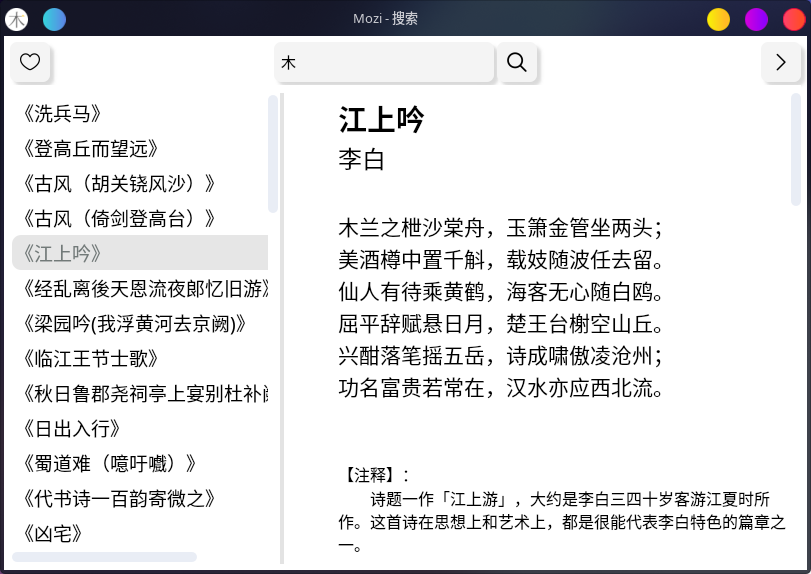
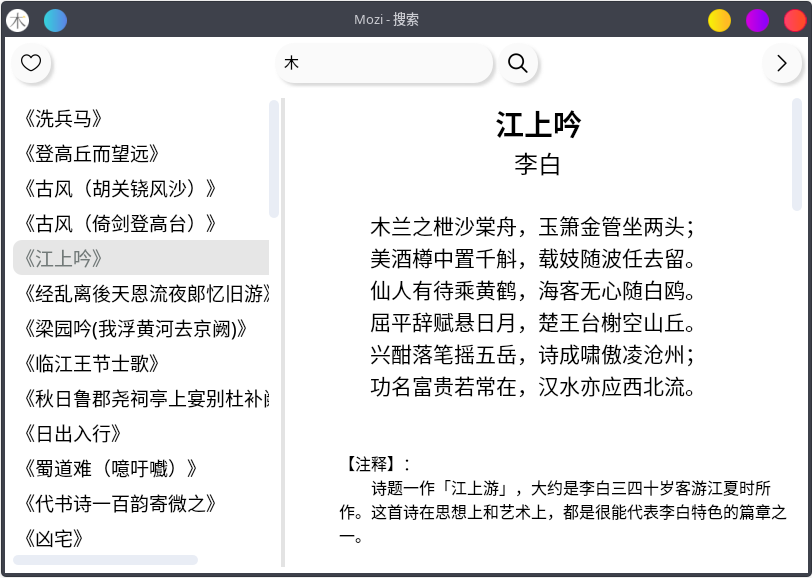
1.0.0.8-更新了UI

diff --git a/src/mainwidget.cpp b/src/mainwidget.cpp
@@ -25,13 +25,7 @@ MainWidget::MainWidget(QWidget *parent) :
     ui(new Ui::MainWidget),
     m_updater(new My_Updater(this)),
     m_networkManager(new My_NetworkManager(this)),
-    m_toast(new My_Toast(this)),
-    m_shadow_1(new QGraphicsDropShadowEffect(this)),
-    m_shadow_2(new QGraphicsDropShadowEffect(this)),
-    m_shadow_3(new QGraphicsDropShadowEffect(this)),
-    m_shadow_4(new QGraphicsDropShadowEffect(this)),
-    m_shadow_5(new QGraphicsDropShadowEffect(this)),
-    m_shadow_6(new QGraphicsDropShadowEffect(this))
+    m_toast(new My_Toast(this))
 {
     ui->setupUi(this);
     this->initUI();
@@ -63,36 +57,21 @@ MainWidget::~MainWidget()
 void MainWidget::initUI()
 {
     /* 按钮阴影 */
-    m_shadow_1->setColor(QColor(200,200,200,180));
-    m_shadow_1->setBlurRadius(6);
-    m_shadow_1->setOffset(3,3);
+    for(int i = 0 ; i < 6 ; i++)
+    {
+        m_shadowList.push_back(new QGraphicsDropShadowEffect(this));
 
-    m_shadow_2->setColor(QColor(200,200,200,180));
-    m_shadow_2->setBlurRadius(6);
-    m_shadow_2->setOffset(3,3);
+        m_shadowList.last()->setColor(QColor(200,200,200,180));
+        m_shadowList.last()->setBlurRadius(6);
+        m_shadowList.last()->setOffset(3, 3);
+    }
 
-    m_shadow_3->setColor(QColor(200,200,200,180));
-    m_shadow_3->setBlurRadius(6);
-    m_shadow_3->setOffset(3,3);
-
-    m_shadow_4->setColor(QColor(200,200,200,180));
-    m_shadow_4->setBlurRadius(6);
-    m_shadow_4->setOffset(3,3);
-
-    m_shadow_5->setColor(QColor(200,200,200,180));
-    m_shadow_5->setBlurRadius(6);
-    m_shadow_5->setOffset(3,3);
-
-    m_shadow_6->setColor(QColor(200,200,200,180));
-    m_shadow_6->setBlurRadius(6);
-    m_shadow_6->setOffset(3,3);
-
-    ui->searcbLineEdit->setGraphicsEffect(m_shadow_1);
-    ui->searchBtn->setGraphicsEffect(m_shadow_2);
-    ui->collectionBtn->setGraphicsEffect(m_shadow_3);
-    ui->returnBtn->setGraphicsEffect(m_shadow_4);
-    ui->returnBtn_2->setGraphicsEffect(m_shadow_5);
-    ui->cancelBtn->setGraphicsEffect(m_shadow_6);
+    ui->searcbLineEdit->setGraphicsEffect(m_shadowList.at(0));
+    ui->searchBtn->setGraphicsEffect(m_shadowList.at(1));
+    ui->collectionBtn->setGraphicsEffect(m_shadowList.at(2));
+    ui->returnBtn->setGraphicsEffect(m_shadowList.at(3));
+    ui->returnBtn_2->setGraphicsEffect(m_shadowList.at(4));
+    ui->cancelBtn->setGraphicsEffect(m_shadowList.at(5));
 
     QFont font = ui->resultList->font();
     font.setPointSize(14);
@@ -123,6 +102,7 @@ void MainWidget::initSignalSlots()
         ui->stackedWidget->rotate(2);
         this->setWindowTitle("Mozi - 收藏");
     });
+
     connect(ui->returnBtn,&QPushButton::clicked,
             [this]{
         ui->stackedWidget->rotate(0);
@@ -240,7 +220,7 @@ void MainWidget::refesh()
     QJsonObject origin = data["origin"].toObject();
     ui->poetryLabel->setText("<html><head/><body><p align=\"center\"><span style=\" font-size:24pt;\">"
     +data["content"].toString()+"</span></p><p align=\"center\"><span style=\" font-size:14pt;\">"                                      // 诗句
-    "——"+origin["dynasty"].toString()+"  "+origin["author"].toString()+"  《"+origin["title"].toString()+"》</span></p></body></html>"); // ————[朝代] [诗人] 《[标题]》
+            "——"+origin["dynasty"].toString()+"  "+origin["author"].toString()+"  《"+origin["title"].toString()+"》</span></p></body></html>"); // ————[朝代] [诗人] 《[标题]》
 }
 
 /**
@@ -251,18 +231,22 @@ void MainWidget::on_searchBtn_clicked()
     if(ui->searcbLineEdit->text().isEmpty())
         return;
 
-    /* 清空列表 */
-    ui->resultList->disconnect(this);
-    ui->resultList->clear();
-    connect(ui->resultList,&QListWidget::currentItemChanged,
-            this,&MainWidget::on_resultList_currentItemChanged);
-
     ui->searchProgressBar->setMaximum(0);
 
     /* 获取数据 */
     QJsonArray resultArray = m_networkManager->queryWord(ui->searcbLineEdit->text());
     if(resultArray.isEmpty())
+    {
         m_toast->toast("什么都没找到 ㄟ( ▔, ▔ )ㄏ");
+        ui->searchProgressBar->setMaximum(100);
+        return;
+    }
+
+    /* 清空列表 */
+    ui->resultList->disconnect(this);
+    ui->resultList->clear();
+    connect(ui->resultList,&QListWidget::currentItemChanged,this,
+            &MainWidget::on_resultList_currentItemChanged);
 
     /* 将结果添加到列表 */
     QListWidgetItem *newItem = nullptr;
@@ -275,52 +259,61 @@ void MainWidget::on_searchBtn_clicked()
     ui->searchProgressBar->setMaximum(100);
 }
 
+void MainWidget::showResult(QListWidgetItem *currentItem, QTextEdit *textEdit, QProgressBar *progressBar)
+{
+    progressBar->setMaximum(0);
+    QJsonObject resultObj = m_networkManager->getPoetry(currentItem->data(Qt::StatusTipRole).toString());
+    if(resultObj.isEmpty())
+    {
+        m_toast->toast("数据获取失败 （　ﾟ Дﾟ）");
+        progressBar->setMaximum(100);
+        return;
+    }
+    progressBar->setMaximum(100);
+
+    textEdit->clear();
+
+    QTextCharFormat fmt = textEdit->currentCharFormat();
+
+    textEdit->setAlignment(Qt::AlignCenter);
+
+    /* 打印标题 */
+    fmt.setFontPointSize(22);
+    fmt.setFontWeight(QFont::Bold);
+    textEdit->setCurrentCharFormat(fmt);
+    textEdit->append(resultObj["biaoti"].toString());
+
+    /* 打印作者 */
+    fmt.setFontPointSize(18);
+    fmt.setFontWeight(QFont::Normal);
+    textEdit->setCurrentCharFormat(fmt);
+    textEdit->append(resultObj["zuozhe"].toString() + "\n");
+
+    /* 打印内容 */
+    fmt.setFontPointSize(16);
+    textEdit->setCurrentCharFormat(fmt);
+    textEdit->append(resultObj["neirong"].toString() + "\n");
+
+    textEdit->setAlignment(Qt::AlignLeft);
+
+    QTextBlockFormat blockFmt;
+    blockFmt.setLeftMargin(50);                                 // 间隔
+    textEdit->textCursor().setBlockFormat(blockFmt);
+
+    /* 打印介绍 */
+    fmt.setFontPointSize(12);
+    textEdit->setCurrentCharFormat(fmt);
+    textEdit->append(resultObj["jieshao"].toString());
+
+    textEdit->moveCursor(QTextCursor::Start);
+}
+
 /**
  * @brief 打印查找古诗详情
  */
 void MainWidget::on_resultList_currentItemChanged(QListWidgetItem *current, QListWidgetItem *)
 {
-    ui->searchProgressBar->setMaximum(0);
-    ui->resultTextEdit->clear();
-
-    QJsonObject resultObj = m_networkManager->getPoetry(current->data(Qt::StatusTipRole).toString());
-    if(resultObj.isEmpty())
-    {
-        m_toast->toast("数据获取失败 （　ﾟ Дﾟ）");
-        ui->searchProgressBar->setMaximum(100);
-        return;
-    }
-
-    QTextBlockFormat blockFmt;
-    blockFmt.setLeftMargin(50);                                 // 间隔
-    ui->resultTextEdit->textCursor().setBlockFormat(blockFmt);
-
-    QTextCharFormat fmt = ui->resultTextEdit->currentCharFormat();
-
-    /* 打印标题 */
-    fmt.setFontPointSize(22);
-    fmt.setFontWeight(QFont::Bold);
-    ui->resultTextEdit->setCurrentCharFormat(fmt);
-    ui->resultTextEdit->append(resultObj["biaoti"].toString());
-
-    /* 打印作者 */
-    fmt.setFontPointSize(18);
-    fmt.setFontWeight(QFont::Normal);
-    ui->resultTextEdit->setCurrentCharFormat(fmt);
-    ui->resultTextEdit->append(resultObj["zuozhe"].toString() + "\n");
-
-    /* 打印内容 */
-    fmt.setFontPointSize(16);
-    ui->resultTextEdit->setCurrentCharFormat(fmt);
-    ui->resultTextEdit->append(resultObj["neirong"].toString() + "\n");
-
-    /* 打印介绍 */
-    fmt.setFontPointSize(12);
-    ui->resultTextEdit->setCurrentCharFormat(fmt);
-    ui->resultTextEdit->append(resultObj["jieshao"].toString());
-
-    ui->resultTextEdit->moveCursor(QTextCursor::Start);
-    ui->searchProgressBar->setMaximum(100);
+    this->showResult(current, ui->resultTextEdit, ui->searchProgressBar);
 }
 
 /**
@@ -328,47 +321,7 @@ void MainWidget::on_resultList_currentItemChanged(QListWidgetItem *current, QLis
  */
 void MainWidget::on_collectionList_currentItemChanged(QListWidgetItem *current, QListWidgetItem *)
 {
-    ui->collectionProgressBar->setMaximum(0);
-    ui->collectionTextEdit->clear();
-
-    QJsonObject resultObj = m_networkManager->getPoetry(current->data(Qt::StatusTipRole).toString());
-    if(resultObj.isEmpty())
-    {
-        m_toast->toast("数据获取失败 （　ﾟ Дﾟ）");
-        ui->collectionProgressBar->setMaximum(100);
-        return;
-    }
-
-    QTextBlockFormat blockFmt;
-    blockFmt.setLeftMargin(50);                                 // 间隔
-    ui->collectionTextEdit->textCursor().setBlockFormat(blockFmt);
-
-    QTextCharFormat fmt = ui->collectionTextEdit->currentCharFormat();
-
-    /* 打印标题 */
-    fmt.setFontPointSize(22);
-    fmt.setFontWeight(QFont::Bold);
-    ui->collectionTextEdit->setCurrentCharFormat(fmt);
-    ui->collectionTextEdit->append(resultObj["biaoti"].toString());
-
-    /* 打印作者 */
-    fmt.setFontPointSize(18);
-    fmt.setFontWeight(QFont::Normal);
-    ui->collectionTextEdit->setCurrentCharFormat(fmt);
-    ui->collectionTextEdit->append(resultObj["zuozhe"].toString() + "\n");
-
-    /* 打印内容 */
-    fmt.setFontPointSize(16);
-    ui->collectionTextEdit->setCurrentCharFormat(fmt);
-    ui->collectionTextEdit->append(resultObj["neirong"].toString() + "\n");
-
-    /* 打印介绍 */
-    fmt.setFontPointSize(12);
-    ui->collectionTextEdit->setCurrentCharFormat(fmt);
-    ui->collectionTextEdit->append(resultObj["jieshao"].toString());
-
-    ui->collectionTextEdit->moveCursor(QTextCursor::Start);
-    ui->collectionProgressBar->setMaximum(100);
+    this->showResult(current, ui->collectionTextEdit, ui->collectionProgressBar);
 }
 
 /**
@@ -408,8 +361,8 @@ void MainWidget::on_cancelBtn_clicked()
     {
         ui->collectionList->disconnect(this);
         delete ui->collectionList->takeItem(ui->collectionList->row(currentItem));
-        connect(ui->collectionList, &QListWidget::currentItemChanged,
-                this, &MainWidget::on_collectionList_currentItemChanged);
+        connect(ui->collectionList, &QListWidget::currentItemChanged,this,
+                &MainWidget::on_collectionList_currentItemChanged);
     }
     else
         delete ui->collectionList->takeItem(ui->collectionList->row(currentItem));

diff --git a/src/mainwidget.h b/src/mainwidget.h
@@ -10,6 +10,8 @@
 
 class QGraphicsDropShadowEffect;
 class QListWidgetItem;
+class QProgressBar;
+class QTextEdit;
 class QSettings;
 
 namespace Ui {
@@ -30,13 +32,13 @@ private slots:
 
     void on_searchBtn_clicked();
 
-    void on_resultList_currentItemChanged(QListWidgetItem *current, QListWidgetItem *previous);
-
     void on_collectionBtn_clicked();
 
-    void on_collectionList_currentItemChanged(QListWidgetItem *current, QListWidgetItem *previous);
-
     void on_cancelBtn_clicked();
+
+    void on_resultList_currentItemChanged(QListWidgetItem *current, QListWidgetItem *previous);
+
+    void on_collectionList_currentItemChanged(QListWidgetItem *current, QListWidgetItem *previous);
 
 private:
     Ui::MainWidget *ui;
@@ -47,18 +49,17 @@ private:
 
     My_Toast *m_toast = nullptr;
 
-    QGraphicsDropShadowEffect *m_shadow_1 = nullptr;
-    QGraphicsDropShadowEffect *m_shadow_2 = nullptr;
-    QGraphicsDropShadowEffect *m_shadow_3 = nullptr;
-    QGraphicsDropShadowEffect *m_shadow_4 = nullptr;
-    QGraphicsDropShadowEffect *m_shadow_5 = nullptr;
-    QGraphicsDropShadowEffect *m_shadow_6 = nullptr;
+    /* 控件阴影 */
+    QList<QGraphicsDropShadowEffect *> m_shadowList;
 
     /* 初始化 */
     inline void initUI();
     inline void initSignalSlots();
 
     inline void refesh();
+
+    void showResult(QListWidgetItem *currentItem, QTextEdit *textEdit,
+                    QProgressBar* progressBar);
 
     /* 设置操作函数 */
     void loadSettings();    // 加载设置

diff --git a/src/main.cpp b/src/main.cpp
@@ -22,7 +22,7 @@ int main(int argc, char *argv[])
     a.installTranslator(&qtGloble);
 
     a.setWindowIcon(QIcon(":/images/images/Mozi.ico"));
-    a.setApplicationVersion("1.0.0.7");
+    a.setApplicationVersion("1.0.0.8");
 
 #ifdef Q_OS_WIN
     a.setFont(QFont("Microsoft YaHei",9));

diff --git a/src/network/my_networkmanager.cpp b/src/network/my_networkmanager.cpp
@@ -13,7 +13,6 @@
 #include <QJsonObject>
 #include <QJsonDocument>
 #include <QNetworkReply>
-#include <QOAuth1Signature>
 #include <QNetworkAccessManager>
 
 My_NetworkManager::My_NetworkManager(QObject *parent) :

diff --git a/README.md b/README.md
@@ -1,12 +1,12 @@
-# Mozi
-![version](https://img.shields.io/badge/version-1.0.0.7-brightgreen.svg?style=flat-square)
+# Mozi
+![version](https://img.shields.io/badge/version-1.0.0.8-brightgreen.svg?style=flat-square)
 ![license](https://img.shields.io/badge/license-GPL--3.0-red.svg?style=flat-square)
 ## 项目介绍
 * Mozi是一个基于 `Qt5` 开发的跨平台桌面诗词软件，我们在学业之余开发了Mozi。
 * 我们用木樨给它命名，希望能让传统文化像桂花一样，香远益清，被更广泛的传播。
 ## 安装/使用
 * 开发环境：`Qt 5.15.0` （Linux） `Qt 5.14.2`（Windows）
-* 目前只有 `Win32` 二进制程序包，Linux 暂时无法打包。:confused:（如果有会的大佬可以联系我们 :stuck_out_tongue_winking_eye:）
+* 目前只有 `Win32` 二进制程序安装包，Linux 暂时无法打包。:confused:（如果有会的大佬可以联系我们 :stuck_out_tongue_winking_eye:）
 ## 运行效果
 ![gif](run.gif)
 ![image](./image/1.png)
